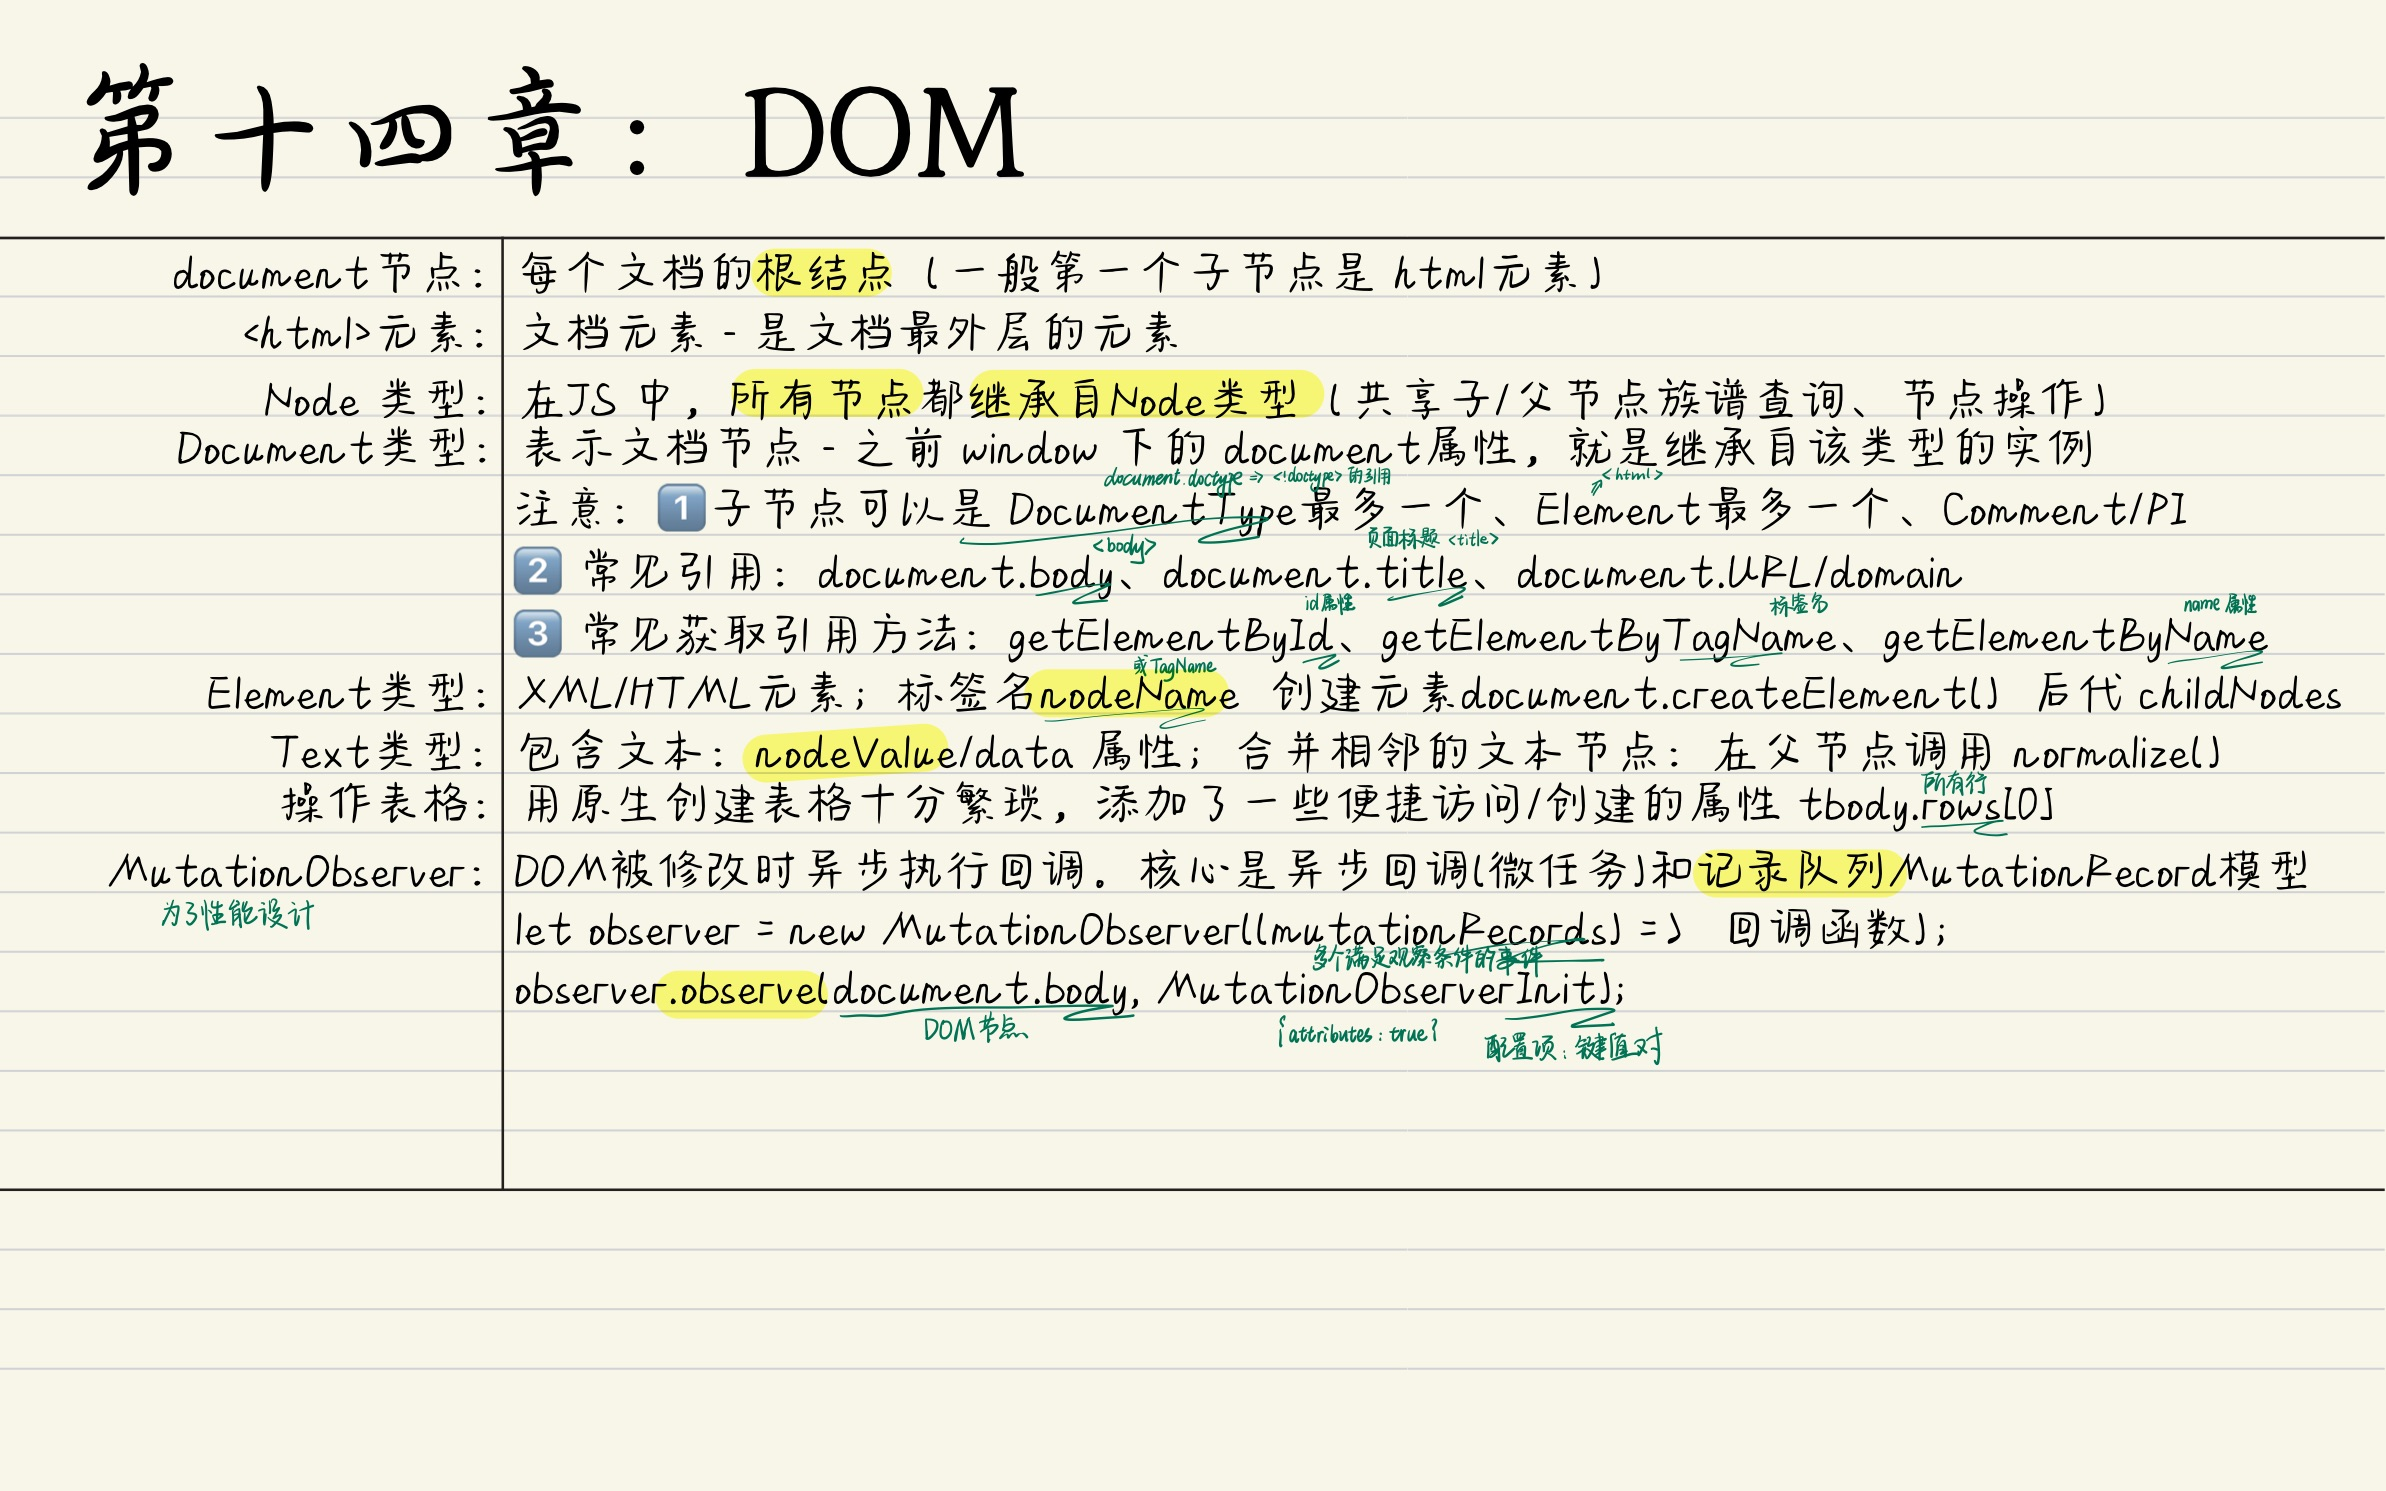
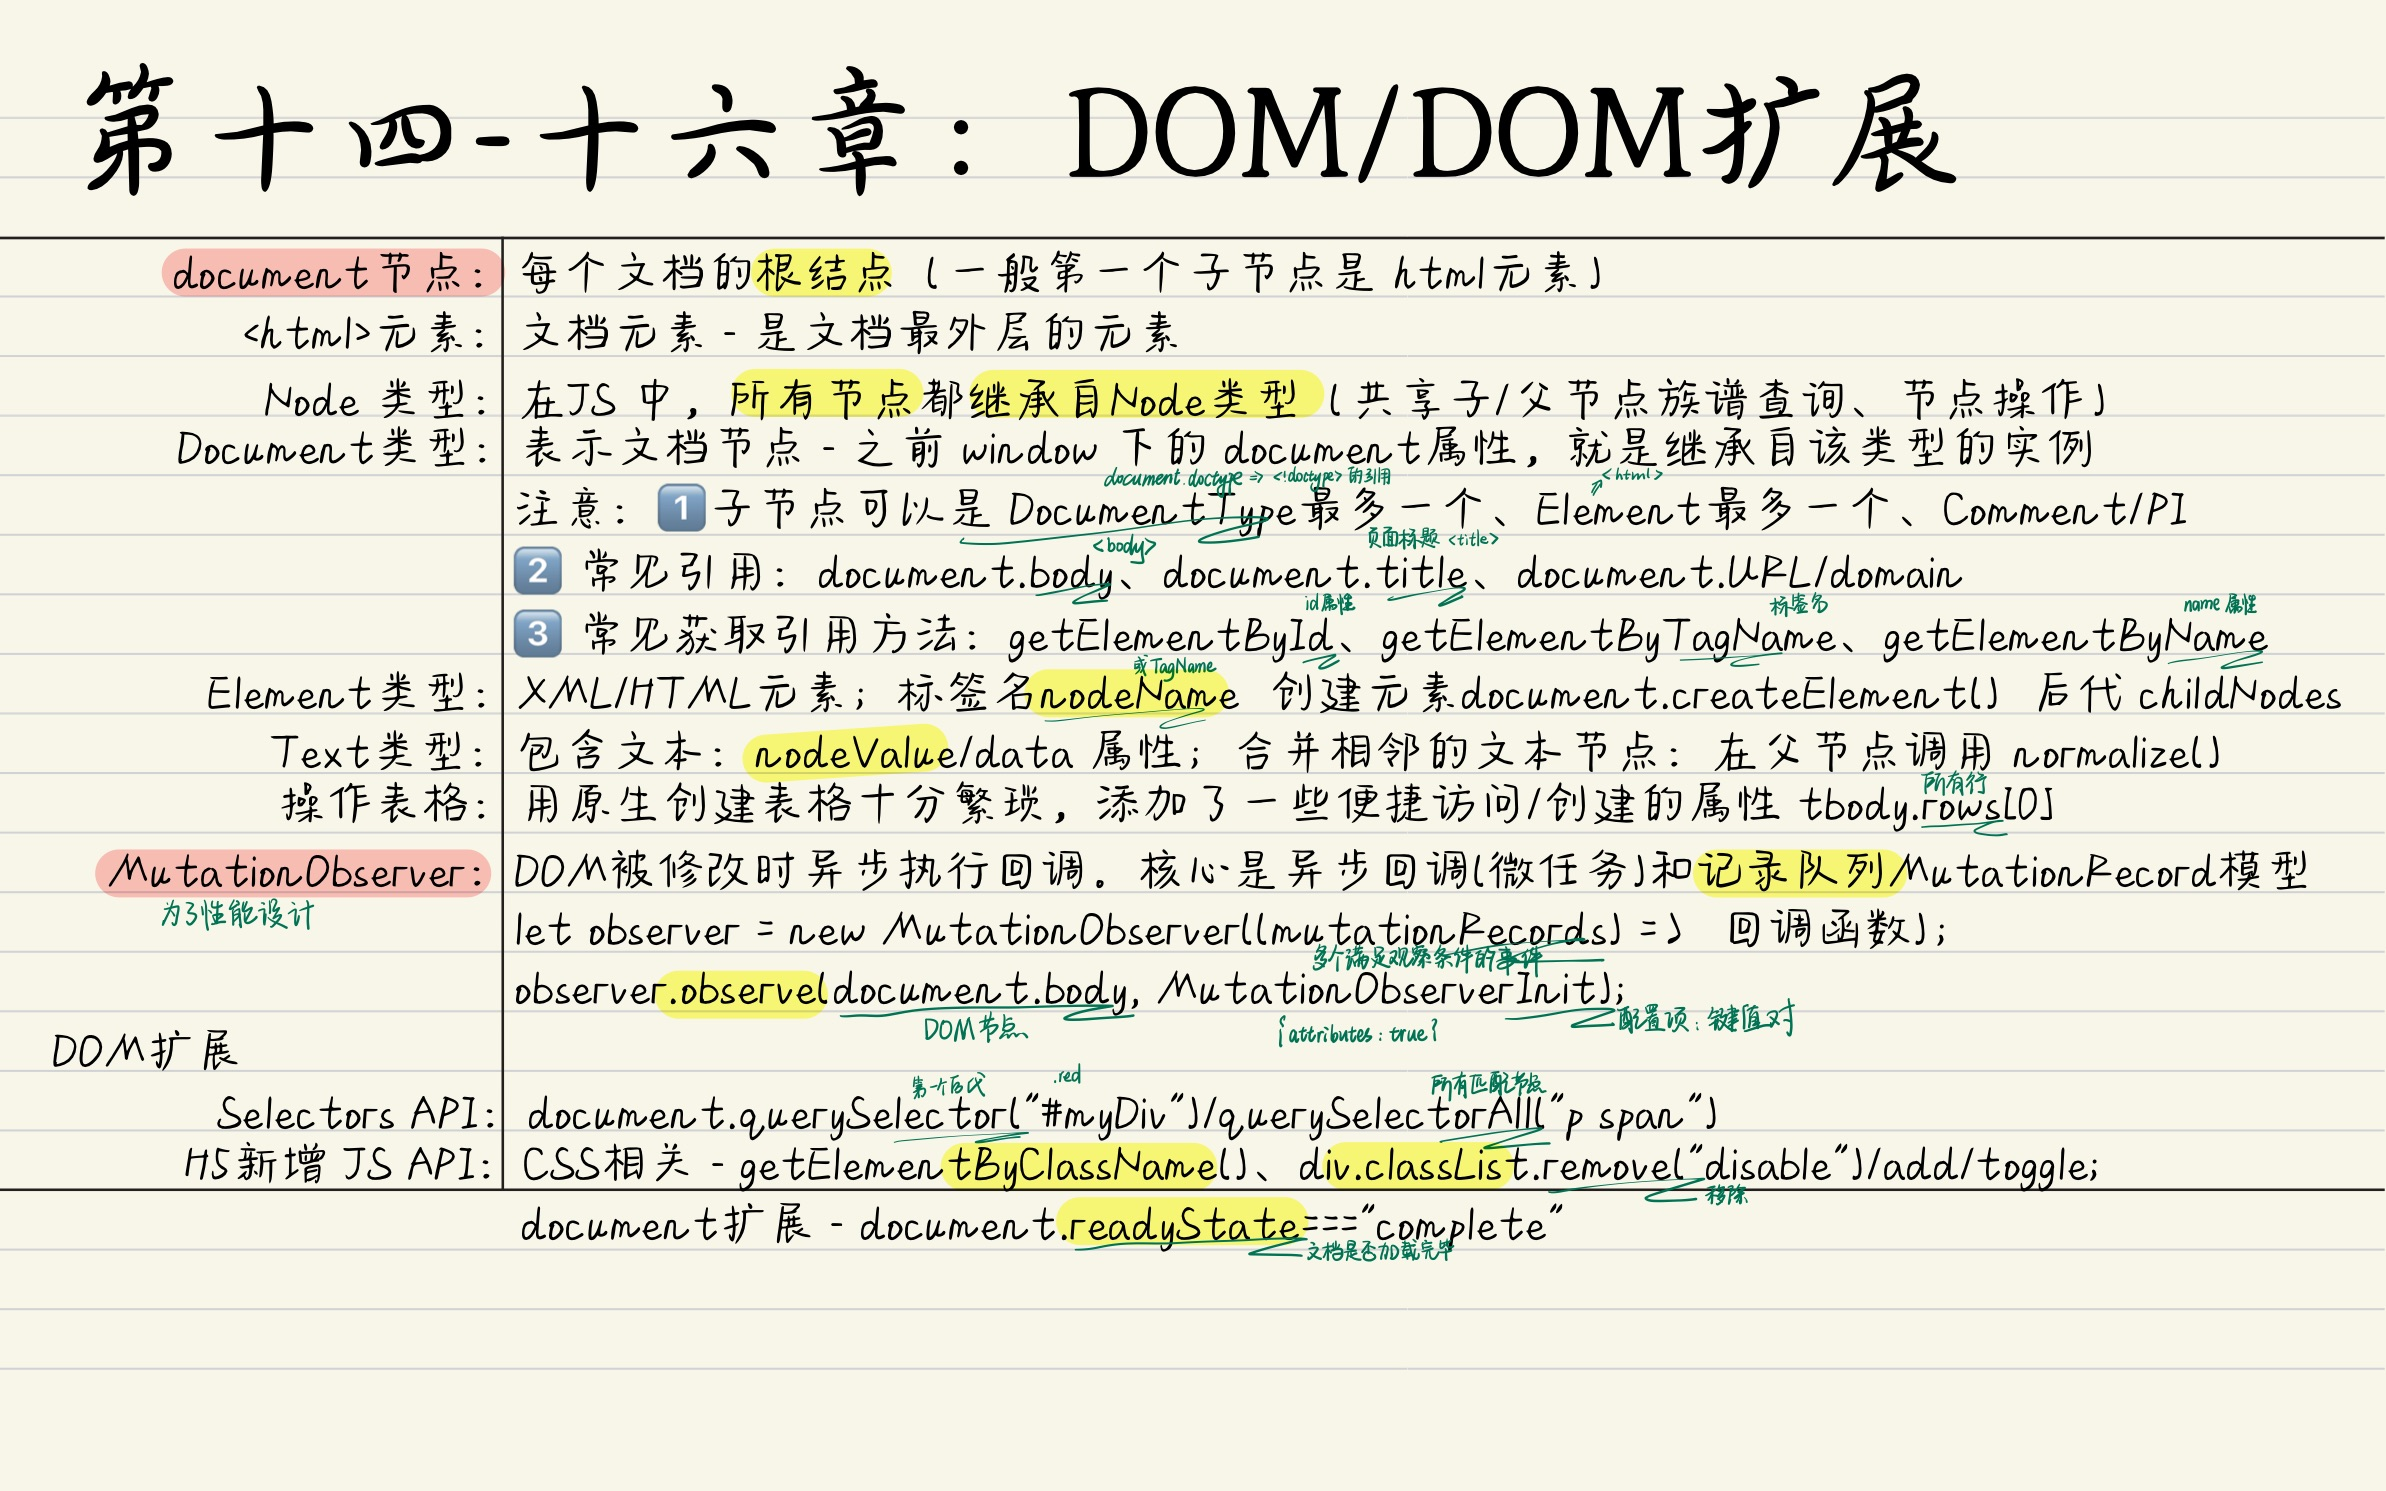
红宝书：第十五章 DOM扩展

diff --git a/_posts/《红宝书相关博客》/2024-10-30-第十四章-第十五章 DOM、DOM扩展 小结.md b/_posts/《红宝书相关博客》/2024-10-30-第十四章-第十五章 DOM、DOM扩展 小结.md
@@ -1,6 +1,6 @@
 ---
 layout:     post
-title:      第十四章 DOM 小结
+title:      第十四章-第十五章 DOM、DOM扩展
 subtitle:  
 date:       2024-10-30
 author:     
@@ -12,6 +12,8 @@ typora-root-url: ..
 ---
 
 
+
+##### 第十四章 DOM
 
 	文档对象模型（DOM，Document Object Model）是语言中立的 HTML 和 XML 文档的 API。
 
@@ -30,5 +32,15 @@ DOM 由一系列节点类型构成，主要包括以下几种：
 	要理解 DOM，最关键的一点是知道影响其性能的问题所在。**DOM 操作** 在 JavaScript 代码中是代价比较高的，NodeList 对象尤其需要注意。**NodeList 对象是“实时更新”的**，这意味着**每次访问它都会执行一次新的查询**。考虑到这些问题，实践中要尽量减少 DOM 操作的数量。
 
 	`MutationObserver` 是为代替性能不好的 `MutationEvent` 而问世的。使用它可以有效精准地监控DOM 变化，而且 API 也相对简单。
+
+##### 第十五章 DOM 扩展
+
+	虽然 DOM 规定了与 XML 和 HTML 文档交互的核心 API，但其他几个规范也定义了对 DOM 的扩展。
+
+	本章主要介绍了以下 3 个规范：
+
+- `Selectors API` 为基于 CSS 选择符获取 DOM 元素定义了几个方法：`querySelector()`、`querySelectorAll()`和 `matches()`。
+- Element Traversal 在 DOM 元素上定义了额外的属性，以方便对 DOM 元素进行 **遍历**。这个需求是因浏览器处理元素间空格的差异而产生的。
+- HTML5 为标准 DOM 提供了大量扩展。其中包括对 `innerHTML` 属性等事实标准进行了标准化，还有焦点管理、字符集、滚动等特性。
 
 ![《红宝书》-30](/../img/assets_2023/《红宝书》-30.jpg)
